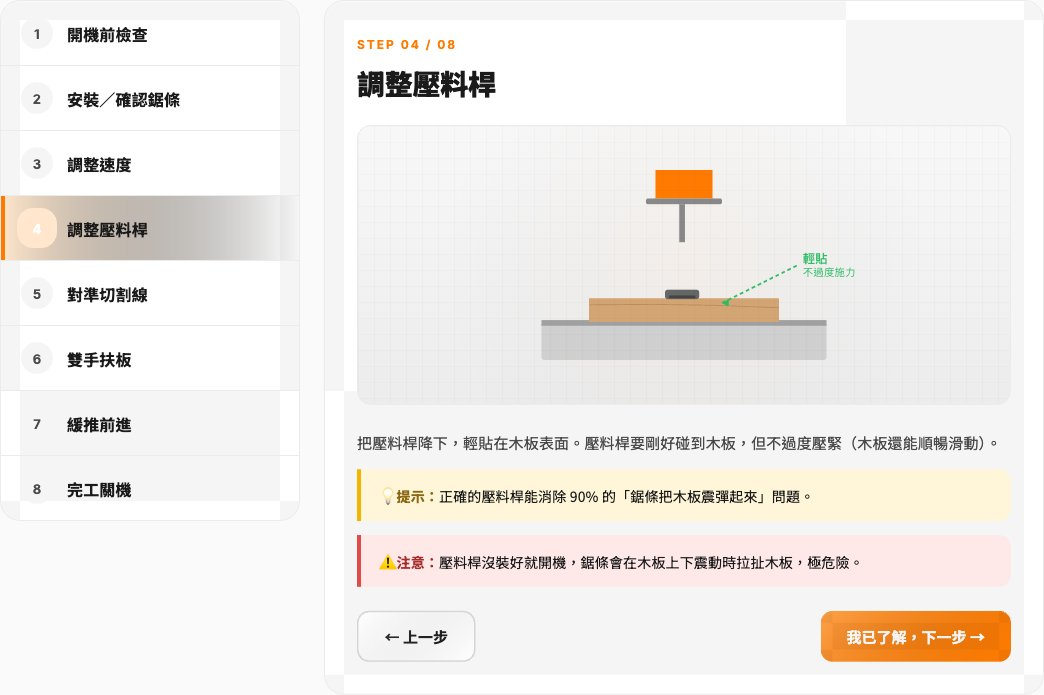
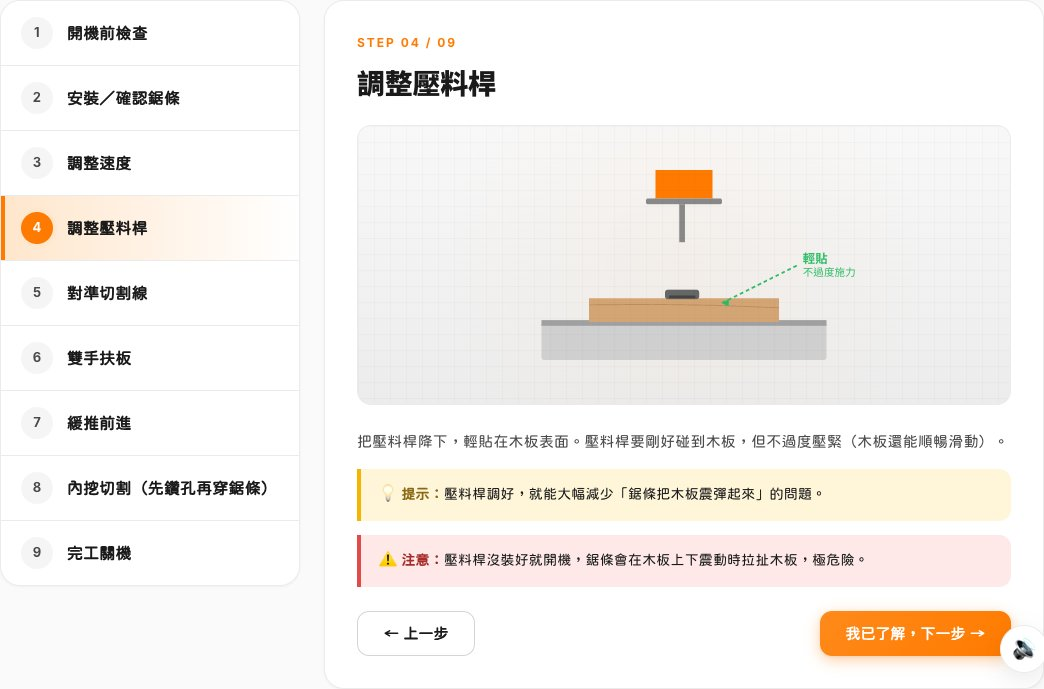
中嚴重度修正（一）：新興科技、機電整合、雷射切割、動力與運輸、STEAM、物理、線鋸機
- 新興科技：ECG 波形相位多乘心率、手錶讀值誤差不一致、遮擋提示與模型不符、一學期天數、
  深度調光沒有舒適代價、無人關閉說明
- 機電整合：閾值滑桿提示寫反、「距離 > 20 讀到 0」邏輯不通、直流馬達扭力、
  調校挑戰不動閾值就完成、感測器亮點左右顛倒
- 雷射切割：RDWorks 補「放料、對焦、設原點」（八→九步驟）、模組 4 一進頁就自動完成、切縫說明
- 動力與運輸：燃料電池碳排改以灰氫計並標明各動力碳排口徑、鈕扣電池推不動馬達、
  模組 4 一載入就記完成、電動車經減速齒輪驅動、塞車成本改定性描述
- STEAM：聲音波形改固定 10 ms 時間窗（頻率改變才看得出疏密）、三角波諧波正負交替、單步走完也記錄
- 物理：等時性定義（小擺角時週期與擺幅無關）
- 線鋸機：開機前檢查光環被圖框切掉、首頁輪播截圖更新為 9 步版、移除無來源的「消除 90%」

依 2026-09-26 多模型審查、Claude 驗證與動態體檢結果修正。

diff --git a/steam/js/module3.js b/steam/js/module3.js
@@ -17,7 +17,7 @@ const TIMBRES = [
   { id: 'saw', ico: '🪚', name: '鋸齒波', meta: '全諧波・明亮如弦樂',
     harm: [[1, 1], [2, 1 / 2], [3, 1 / 3], [4, 1 / 4], [5, 1 / 5], [6, 1 / 6], [7, 1 / 7], [8, 1 / 8]] },
   { id: 'tri', ico: '📐', name: '三角波', meta: '奇次衰減快・柔和似笛',
-    harm: [[1, 1], [3, 1 / 9], [5, 1 / 25], [7, 1 / 49], [9, 1 / 81]] },
+    harm: [[1, 1], [3, -1 / 9], [5, 1 / 25], [7, -1 / 49], [9, 1 / 81]] },   // 正負交替才是直線斜邊
 ];
 
 const state = { f: 440, a: 60, timbre: 'sine' };
@@ -39,7 +39,7 @@ function noteName(f) {
 function sample(t) {
   const T = TIMBRES.find(x => x.id === state.timbre);
   let v = 0, norm = 0;
-  T.harm.forEach(([n, amp]) => { v += amp * Math.sin(2 * Math.PI * state.f * n * t); norm += amp; });
+  T.harm.forEach(([n, amp]) => { v += amp * Math.sin(2 * Math.PI * state.f * n * t); norm += Math.abs(amp); });
   return v / norm;
 }
 
@@ -51,9 +51,9 @@ function draw() {
   ctx.strokeStyle = '#334155'; ctx.lineWidth = 1;
   ctx.beginPath(); ctx.moveTo(0, mid); ctx.lineTo(W, mid); ctx.stroke();
 
-  // 顯示固定 3 個週期，讓「頻率變高＝波變密」不會超出畫面
-  const periods = 3, dur = periods / state.f;
-  const amp = (state.a / 100) * (H / 2 - 22);
+  // 固定時間窗 10 ms：頻率變高＝同樣時間內的波變多、變密
+  const dur = 0.010, periods = state.f * dur;
+  const amp = (state.a / 100) * (H / 2 - 36);   // 下方留給時間刻度
 
   ctx.strokeStyle = '#EC4899'; ctx.lineWidth = 2.5; ctx.beginPath();
   for (let x = 0; x <= W; x++) {
@@ -63,15 +63,25 @@ function draw() {
   }
   ctx.stroke();
 
+  // 時間刻度：每 1 ms 一格
+  ctx.strokeStyle = '#475569'; ctx.lineWidth = 1;
+  ctx.fillStyle = '#64748b'; ctx.font = '10px Inter, sans-serif'; ctx.textAlign = 'center';
+  for (let ms = 0; ms <= 10; ms++) {
+    const x = ms / 10 * W;
+    ctx.beginPath(); ctx.moveTo(x, H - 30); ctx.lineTo(x, H - 24); ctx.stroke();
+    if (ms > 0 && ms < 10) ctx.fillText(ms + ' ms', x, H - 14);
+  }
+
   // 一個週期的標示
   const pw = W / periods;
   ctx.strokeStyle = '#8B5CF6'; ctx.setLineDash([6, 5]); ctx.lineWidth = 2;
-  ctx.beginPath(); ctx.moveTo(pw, 14); ctx.lineTo(pw, H - 14); ctx.stroke(); ctx.setLineDash([]);
-  ctx.fillStyle = '#8B5CF6'; ctx.font = '700 12px Inter, sans-serif'; ctx.textAlign = 'center';
-  ctx.fillText('← 一個週期 →', pw / 2, 22);
+  ctx.beginPath(); ctx.moveTo(pw, 14); ctx.lineTo(pw, H - 34); ctx.stroke(); ctx.setLineDash([]);
+  ctx.fillStyle = '#8B5CF6'; ctx.font = '700 12px Inter, sans-serif';
+  if (pw >= 110) { ctx.textAlign = 'center'; ctx.fillText('← 一個週期 →', pw / 2, 22); }
+  else { ctx.textAlign = 'left'; ctx.fillText('← 左邊這一段是一個週期', pw + 6, 22); }
 
   ctx.textAlign = 'left'; ctx.fillStyle = '#94a3b8'; ctx.font = '11px Inter, sans-serif';
-  ctx.fillText(`${state.f} Hz ・ 畫面顯示 ${periods} 個週期`, 12, H - 10);
+  ctx.fillText(`${state.f} Hz ・ 畫面寬 10 ms，約 ${periods.toFixed(1)} 個週期`, 12, H - 2);
 }
 
 function update() {
@@ -105,12 +115,12 @@ function play() {
     master.gain.linearRampToValueAtTime(0, now + dur);
     master.connect(audioCtx.destination);
 
-    const norm = T.harm.reduce((s, [, a]) => s + a, 0);
+    const norm = T.harm.reduce((s, [, a]) => s + Math.abs(a), 0);
     T.harm.forEach(([n, a]) => {
       if (state.f * n > 18000) return;           // 超出可聽範圍就不加，避免刺耳
       const osc = audioCtx.createOscillator(), g = audioCtx.createGain();
       osc.type = 'sine'; osc.frequency.value = state.f * n;
-      g.gain.value = a / norm;
+      g.gain.value = a / norm;                    // 負值＝反相（Web Audio 允許負增益）
       osc.connect(g); g.connect(master);
       osc.start(now); osc.stop(now + dur);
     });

diff --git a/emerging-tech/js/module4.js b/emerging-tech/js/module4.js
@@ -9,7 +9,8 @@ function saveP(p) { localStorage.setItem(PK, JSON.stringify(p)); }
 // ---------- 環境曲線（典型夏季上學日） ----------
 const HOURS = Array.from({ length: 24 }, (_, h) => h);
 const outdoorT = HOURS.map(h => 24 + 8 * Math.sin((h - 9) / 24 * 2 * Math.PI));      // 約 16–32 °C，14 時最熱
-const daylight = HOURS.map(h => (h < 6 || h > 18) ? 0 : Math.round(100 * Math.sin((h - 6) / 12 * Math.PI)));
+// 室內自然光照度（相對值）；早上 8 時太陽仍低、教室內自然光不足，壓低到 30
+const daylight = HOURS.map(h => (h < 6 || h > 18) ? 0 : h === 8 ? 30 : Math.round(100 * Math.sin((h - 6) / 12 * Math.PI)));
 const occupancy = HOURS.map(h => (h >= 8 && h <= 16) ? (h === 12 ? 0.3 : 1) : 0);    // 午休人少
 
 const AC_ON_HOURS = HOURS.filter(h => h >= 8 && h <= 17);
@@ -26,11 +27,11 @@ const SENSORS = [
 
 // ---------- 控制策略 ----------
 const RULES = [
-  { id: 'r_pir',  need: 'pir',  label: '無人關閉：偵測不到人時，空調與照明全關', desc: '午休與課後自動斷電。安全牌，省最多。' },
+  { id: 'r_pir',  need: 'pir',  label: '無人關閉：偵測不到人時，空調與照明全關', desc: '課後與空教室自動斷電（午休仍有約 3 成的人在，不會關）。安全牌，不影響舒適。' },
   { id: 'r_temp', need: 'temp', label: '溫控空調：室外低於 26°C 才不開空調', desc: '只在涼爽時段關機，不影響舒適。' },
   { id: 'r_eco',  need: 'temp', label: '⚡ 弱冷模式：室外低於 31°C 都不開空調', desc: '積極節能，但最熱的時段可能讓人受不了。啟用時會覆蓋上一條。' },
   { id: 'r_lux',  need: 'lux',  label: '日光調光：自然光充足（照度 ≥ 40）時關電燈', desc: '照度達標才關，看得清楚。' },
-  { id: 'r_dim',  need: 'lux',  label: '⚡ 深度調光：照度 ≥ 25 就關電燈', desc: '省更多，但陰天或早晚可能太暗。啟用時會覆蓋上一條。' },
+  { id: 'r_dim',  need: 'lux',  label: '⚡ 深度調光：照度 ≥ 25 就關電燈', desc: '省更多，但早上自然光還不夠時也會關燈，教室可能太暗。啟用時會覆蓋上一條。' },
 ];
 
 const state = { sensors: new Set(loadP().module4_sensors || []), rules: new Set(loadP().module4_rules || []) };
@@ -72,7 +73,7 @@ function simulate(useRules) {
 
 // ---------- 挑戰 ----------
 const QUESTS = [
-  { id: 'q_save30', text: '讓總用電比基準省下 30% 以上', hint: '無人關閉的效果最大',
+  { id: 'q_save30', text: '讓總用電比基準省下 30% 以上', hint: '日光調光＋無人關閉搭配，再加一條空調策略',
     test: (r) => r.savePct >= 30 },
   { id: 'q_comfort', text: '省下 30% 以上，且舒適度違規為 0', hint: '別在有人又熱的時段關掉空調',
     test: (r) => r.savePct >= 30 && r.discomfort === 0 },

diff --git a/physics/js/quiz.js b/physics/js/quiz.js
@@ -10,7 +10,7 @@ const QUIZ = [
   { sim: 'bounce', q: '如果球與地面是「完全彈性碰撞」（理想狀況），反彈高度會？', options: ['回到原來放開的高度', '愈彈愈高', '還是愈彈愈低'], correct: 0, explain: '完全彈性碰撞力學能守恆、不耗散，動能全部保留，球會回到原高度。現實中做不到，所以真實的球一定愈彈愈低。' },
   { sim: 'projectile', q: '同樣初速、忽略空氣阻力，哪個發射角度射程最遠？', options: ['35°', '45°', '55°'], correct: 1, explain: '45° 時水平速度與滯空時間的乘積最大，射程最遠。35° 與 55° 互為「餘角」（相加 90°），射程一樣但都比 45° 短。' },
   { sim: 'projectile', q: '拋體飛行中（忽略空氣阻力），水平方向的運動是？', options: ['等速運動', '等加速運動', '愈飛愈慢'], correct: 0, explain: '忽略空阻時水平方向沒有任何力，依慣性維持等速；只有垂直方向受重力做等加速運動。兩者合成就是拋物線。' },
-  { sim: 'pendulum', q: '單擺的週期主要由什麼決定？', options: ['擺錘的質量', '擺長與重力加速度', '放開的力氣大小'], correct: 1, explain: '週期 T ≈ 2π√(L/g)，只跟擺長 L 和重力加速度 g 有關。這就是單擺等時性，也是擺鐘可以計時的原理。' },
+  { sim: 'pendulum', q: '單擺的週期主要由什麼決定？', options: ['擺錘的質量', '擺長與重力加速度', '放開的力氣大小'], correct: 1, explain: '週期 T ≈ 2π√(L/g)，只跟擺長 L 和重力加速度 g 有關，與擺錘質量無關。另外在小擺角時，擺幅大小也不影響週期，這叫等時性，也是擺鐘可以計時的原理。' },
   { sim: 'pendulum', q: '把擺錘換成兩倍重（擺長不變、小角度），週期會？', options: ['變成兩倍', '變成一半', '不變'], correct: 2, explain: '週期公式裡沒有質量——重的擺錘受力較大但慣性也較大，兩者抵消，週期不變。' },
   { sim: 'circular', q: '等速圓周運動的小球，速率固定，它有加速度嗎？', options: ['沒有，速率沒變就沒加速度', '有，因為速度「方向」一直在變（向心加速度）', '只有轉快時才有'], correct: 1, explain: '速度是有方向的量。方向一直在變，速度就一直在變，所以有加速度——方向指向圓心，稱為向心加速度，由向心力提供。' },
   { sim: 'circular', q: '若繩子突然斷掉（向心力消失），球會往哪個方向飛？', options: ['沿半徑向外飛出', '沿當時的切線方向直線飛出', '繼續繞圓圈'], correct: 1, explain: '失去向心力後沒有力再改變方向，依慣性沿「當下速度方向」＝圓的切線方向做直線運動。甩鏈球就是這樣出手的。' },

diff --git a/powertrain/js/module3.js b/powertrain/js/module3.js
@@ -6,7 +6,7 @@ const STEPS = [
   { title: '計算齒輪比與輪徑', desc: '齒輪比 = 輪軸齒數 ÷ 馬達齒數\n速度 = (馬達 RPM ÷ 齒輪比) × 輪周長\n例：5000 RPM ÷ 4 倍 × 0.2m = 250 m/min ≈ 4 m/s', tip: '比賽要的是 5m 內加速到最快——齒輪比 3-5 倍最常見。' },
   { title: '製作車身結構', desc: '材料：保麗龍板、瓦楞紙板、巴沙木、3D 列印件\n要求：輕量化（< 50g 車身）、強度足夠承受輪軸轉動力、平面要平整給太陽能板貼。', tip: '輪軸軸承用塑膠管或滾珠軸承——車身鑽孔的摩擦太大，車跑不快。' },
   { title: '組裝動力系統', desc: '步驟：\n1. 馬達用熱熔膠固定到車身\n2. 馬達軸裝小齒輪\n3. 後輪軸裝大齒輪（要與小齒輪嚙合）\n4. 太陽能板用導線接馬達（+/-）\n5. 加開關控制', tip: '齒輪嚙合要剛好——太緊轉不動、太鬆會打滑。試 3 次找最佳位置。' },
-  { title: '室內測試與調整', desc: '優先到戶外陽光下測試；室內改用 LED 桌燈照射太陽能板，燈與板保持 10 cm 以上。\n注意：鹵素燈、白熾燈的燈泡非常燙，不要貼近太陽能板或車身，也不要用手碰——會燙傷，還可能烤熔保麗龍、熱熔膠而起火。\n測試重點：\n• 車輪有沒有正常轉？\n• 走直線還是偏一邊？\n• 加速順不順？\n依結果調整齒輪嚙合、車身對稱性、馬達固定。', tip: '室內測試燈光遠不夠亮——馬達可能轉不起來。可改用 3V 鈕釦電池暫代測試。' },
+  { title: '室內測試與調整', desc: '優先到戶外陽光下測試；室內改用 LED 桌燈照射太陽能板，燈與板保持 10 cm 以上。\n注意：鹵素燈、白熾燈的燈泡非常燙，不要貼近太陽能板或車身，也不要用手碰——會燙傷，還可能烤熔保麗龍、熱熔膠而起火。\n測試重點：\n• 車輪有沒有正常轉？\n• 走直線還是偏一邊？\n• 加速順不順？\n依結果調整齒輪嚙合、車身對稱性、馬達固定。', tip: '室內測試燈光遠不夠亮——馬達可能轉不起來。可改用 2 顆 3 號（AA）乾電池串聯（3V）的電池盒暫代測試；鈕扣電池電流太小，推不動 130／260 馬達。' },
   { title: '戶外實測 + 成果發表', desc: '陽光下做最終測試。記錄：\n• 加速時間（0 → 5m 多久）\n• 最高速\n• 直線性\n• 太陽能板朝向影響\n\n發表時除展示車輛，講設計選擇（為何選此馬達 / 齒比 / 輪徑）。', tip: '陰天電流降到一半——比賽日如果陰天，車跑得會比練習時慢。' },
 ];
 

diff --git a/powertrain/js/module4.js b/powertrain/js/module4.js
@@ -16,7 +16,18 @@ const POWERS = {
   diesel: { name: '柴油內燃機', eff: 30, unit: 'L/100km', costPerUnit: 28, co2PerUnit: 2680, fuelMul: 5.1 },
   ev:     { name: '電動 EV',   eff: 90, unit: 'kWh/100km', costPerUnit: 5, co2PerUnit: 495, fuelMul: 15 },
   hybrid: { name: '油電混合',   eff: 40, unit: 'L/100km', costPerUnit: 30, co2PerUnit: 2350, fuelMul: 3.6 },
-  fc:     { name: '燃料電池',   eff: 60, unit: 'kg/100km', costPerUnit: 250, co2PerUnit: 0, fuelMul: 1.0 },
+  fc:     { name: '燃料電池',   eff: 60, unit: 'kg/100km', costPerUnit: 250, co2PerUnit: 10000, fuelMul: 1.0 },
+};
+
+// CO₂ 口徑：汽油／柴油只算排氣管排放；電動車以台灣電力排碳係數（經濟部能源署 112 年度 0.494 kg CO2e/度）計、
+// 燃料電池以灰氫（天然氣重組製氫，IEA《Global Hydrogen Review 2024》10–12 kg CO2-eq/kg H₂，取 10）計，
+// 後兩者都含能源生產端，燃料電池車端雖然零排放，製氫仍有碳排
+const CO2_NOTE = {
+  ice: '只算排氣管排放（不含煉油、運輸）',
+  diesel: '只算排氣管排放（不含煉油、運輸）',
+  hybrid: '只算排氣管排放（不含煉油、運輸）',
+  ev: '車端零排放；此數字是發電端排放（台灣電力排碳係數約 0.49 kg/度）',
+  fc: '車端只排水；此數字是製氫排放（以天然氣製的灰氫約 10 kg CO₂/kg 計）',
 };
 
 const PK = 'pt_progress_v1';
@@ -43,6 +54,20 @@ function calc() {
   $('r-co2').textContent = (totalCO2 / 1000).toFixed(1) + ' kg';
   $('r-trees').textContent = trees.toFixed(2) + ' 棵/年';
   $('r-co2').style.color = totalCO2 > 50000 ? '#dc2626' : totalCO2 > 10000 ? '#eab308' : '#16A34A';
+  $('r-co2-note').textContent = CO2_NOTE[pId];
+  markUsed(pId);
+}
+
+// 完成條件：至少比較過 2 種動力來源，而且調整過行駛距離
+const usedPowers = new Set();
+let distMoved = false;
+function markUsed(pId) {
+  usedPowers.add(pId);
+  if (usedPowers.size < 2 || !distMoved) return;
+  const pr = loadP();
+  if (pr.module4) return;
+  pr.module4 = true; saveP(pr);
+  if (typeof showToast === 'function') showToast('✅ 已比較多種動力來源，模組 4 完成！', 'good');
 }
 
 document.querySelectorAll('.tab').forEach(t => t.addEventListener('click', () => {
@@ -52,7 +77,5 @@ document.querySelectorAll('.tab').forEach(t => t.addEventListener('click', () =>
   calc();
 }));
 $('s-power').addEventListener('change', calc);
-$('s-dist').addEventListener('input', calc);
+$('s-dist').addEventListener('input', () => { distMoved = true; calc(); });
 calc();
-
-const p = loadP(); p.module4 = true; saveP(p);

diff --git a/powertrain/js/module1.js b/powertrain/js/module1.js
@@ -1,7 +1,7 @@
 // 動力與運輸 模組 1：4 種動力系統
 const POWERS = [
   { id: 'ice', iso: 'ice-engine', name: '內燃機 Internal Combustion', icon: '🛢', eff: 25, desc: '燃料（汽油/柴油）在汽缸內燃燒，推動活塞 → 曲軸 → 變速箱 → 車輪。技術成熟 100+ 年。', pros: '加油快、續航長、技術成熟', cons: '效率低（25-30%）、CO₂ 排放、噪音、震動', use: '汽油車、機車、卡車、發電機' },
-  { id: 'em', iso: 'ev-motor', name: '電動機 Electric Motor', icon: '⚡', eff: 90, desc: '電池供電給馬達 → 直接驅動車輪（無需變速箱）。BLDC 無刷馬達是主流。', pros: '效率極高（90%+）、零排放、瞬間扭力大', cons: '電池貴、續航短、充電慢、寒冷耗電', use: '電動車、電動機車、電動巴士、高鐵' },
+  { id: 'em', iso: 'ev-motor', name: '電動機 Electric Motor', icon: '⚡', eff: 90, desc: '電池供電給馬達 → 經減速齒輪驅動車輪（不需要多檔變速箱）。BLDC 無刷馬達是主流。', pros: '效率極高（90%+）、零排放、瞬間扭力大', cons: '電池貴、續航短、充電慢、寒冷耗電', use: '電動車、電動機車、電動巴士、高鐵' },
   { id: 'fc', iso: 'fuel-cell', name: '燃料電池 Fuel Cell', icon: '⛽', eff: 60, desc: '氫氣 + 氧氣化學反應 → 直接產生電能（副產物是純水）。加氫 3 分鐘可跑 600 公里。', pros: '加氫快、零排放、續航長', cons: '氫氣製造耗電、儲存運輸難、加氫站少', use: 'Toyota Mirai、燃料電池巴士、未來航空' },
   { id: 'hyd', iso: 'hydraulic', name: '液壓動力 Hydraulic', icon: '💪', eff: 60, desc: '高壓液壓油推動油壓缸做直線運動。重型機械標配——力大、控制精準。', pros: '力極大（數十噸）、運動穩定、可精確定位', cons: '管路漏油、效率不如電動、需液壓站', use: '挖土機、堆高機、煞車系統、椅子升降' },
 ];

diff --git a/powertrain/js/module5.js b/powertrain/js/module5.js
@@ -1,6 +1,6 @@
 // 動力與運輸 模組 5：社會與環境
 const ISSUES = [
-  { icon: '🚦', name: '塞車成本', cat: '經濟', desc: '台北市平均通勤 35 分鐘塞車耗 1 小時。一年塞車經濟損失估 6000 億元，佔 GDP 3%。' },
+  { icon: '🚦', name: '塞車成本', cat: '經濟', desc: '尖峰時段塞在路上的時間，就是少掉的工作、讀書與休息時間，再加上多燒的油和貨物延誤——累積起來是整個城市、整個國家看不見的經濟損失。' },
   { icon: '💨', name: '空氣汙染', cat: '環境', desc: '機動車排放 NOx 與 PM2.5 是都市空汙最大來源。台灣道路致癌風險中等以上佔 28%。' },
   { icon: '🌡', name: '氣候變遷', cat: '環境', desc: '運輸佔全球 CO₂ 排放 24%。每加 1 公升汽油排 2.3 公斤 CO₂。全球暖化加速。' },
   { icon: '🏥', name: '交通事故', cat: '社會', desc: '台灣每年道路死亡約 3000 人、傷 50 萬人。年輕族群（18-24）死亡率最高。' },
@@ -26,7 +26,7 @@ ISSUES.forEach(i => {
 });
 
 const QUIZ = [
-  { q: '台北市每年塞車造成 GDP 損失 3%', ans: '經濟', explain: '塞車的時間損失轉換成金錢就是經濟議題。' },
+  { q: '每天塞車浪費的通勤時間與油錢，累積成可觀的社會成本', ans: '經濟', explain: '塞車的時間損失轉換成金錢就是經濟議題。' },
   { q: '機車排放的 PM2.5 影響市民呼吸健康', ans: '環境', explain: 'PM2.5 是空汙議題 = 環境面向。' },
   { q: '每年 3000 人死於車禍', ans: '社會', explain: '生命安全與公共福祉是社會面向。' },
   { q: '汽車中心都市 → 沒車的人不便', ans: '社會', explain: '公平性 = 社會議題。' },

diff --git a/scrollsaw/js/module3.js b/scrollsaw/js/module3.js
@@ -25,7 +25,7 @@ const STEPS = [
     title: '調整壓料桿',
     anim: 'holddown',
     desc: '把壓料桿降下，輕貼在木板表面。壓料桿要剛好碰到木板，但不過度壓緊（木板還能順暢滑動）。',
-    tip: '正確的壓料桿能消除 90% 的「鋸條把木板震彈起來」問題。',
+    tip: '壓料桿調好，就能大幅減少「鋸條把木板震彈起來」的問題。',
     warn: '壓料桿沒裝好就開機，鋸條會在木板上下震動時拉扯木板，極危險。',
   },
   {
@@ -143,10 +143,11 @@ function renderAnim(type) {
         <rect x="190" y="100" width="20" height="50" fill="#222"/>
         <rect x="160" y="90" width="80" height="14" fill="#FF9933"/>
         <!-- 環視動畫圓 -->
-        <circle cx="200" cy="155" r="80" fill="none" stroke="#FF7A00" stroke-width="2" stroke-dasharray="6 6">
+        <circle cx="200" cy="155" r="70" fill="none" stroke="#FF7A00" stroke-width="2" stroke-dasharray="6 6">
           <animateTransform attributeName="transform" type="rotate" from="0 200 155" to="360 200 155" dur="6s" repeatCount="indefinite"/>
         </circle>
-        <circle cx="200" cy="155" r="100" fill="none" stroke="#FF7A00" stroke-width="1" stroke-dasharray="3 3" opacity=".5">
+        <!-- 外圈半徑 84：下緣 239 仍在 viewBox 240 內，不會被切掉 -->
+        <circle cx="200" cy="155" r="84" fill="none" stroke="#FF7A00" stroke-width="1" stroke-dasharray="3 3" opacity=".5">
           <animateTransform attributeName="transform" type="rotate" from="360 200 155" to="0 200 155" dur="8s" repeatCount="indefinite"/>
         </circle>
         <!-- 檢查項目（角落白卡片，避開機台與圈圈）-->

diff --git a/lasercut/js/module2.js b/lasercut/js/module2.js
@@ -1,4 +1,4 @@
-// 雷射切割 模組 2：RDWorks 八步驟排序
+// 雷射切割 模組 2：RDWorks 九步驟排序
 // 觸控裝置 HTML5 拖放不可靠，故同時提供 ▲▼ 按鈕作為主要操作方式。
 const PK = 'laser_progress_v1';
 function loadP() { try { return JSON.parse(localStorage.getItem(PK)) || {}; } catch { return {}; } }
@@ -17,6 +17,8 @@ const STEPS = [
     why: '預覽會顯示雷射實際會怎麼走。可以提早發現圖層順序錯誤（例如先切外框導致件掉下去）。' },
   { id: 's6', t: 'Download 傳送到控制器', sub: '把檔案送進機器',
     why: 'RDWorks 是先把整份工作下載到控制器再執行，不是即時連線。傳完之後電腦其實可以不用一直連著。' },
+  { id: 's6b', t: '放置板材、對焦並設定原點', sub: '在機台上完成',
+    why: '板材要放平；<strong>焦距</strong>對在材料表面，能量才集中，否則「參數明明對卻切不斷」。再把雷射頭移到板材上要開始的位置按<strong>定位（設原點）</strong>——後面的掃框和加工都以這個原點為準，沒設好就會切到板材外面。' },
   { id: 's7', t: 'Frame 掃框確認位置', sub: '雷射頭空走一圈範圍',
     why: '<strong>最常被跳過、也最不該跳過的一步。</strong>三秒鐘確認加工範圍在板材內，避免切到台面或切在空氣中。' },
   { id: 's8', t: '開始加工並全程留守', sub: '人不能離開',

diff --git a/emerging-tech/js/module5.js b/emerging-tech/js/module5.js
@@ -51,8 +51,10 @@ function compute() {
   let err = Math.max(0.4, motionTerm + staticTerm);
   const errPct = err / a.hr * 100;
   // 誤差方向：動作偽影常讓 PPG 低估或鎖到步頻，這裡以低估呈現
-  const reading = Math.round(a.hr - err * 0.75);
-  return { truth: a.hr, reading, err: Math.round(err), errPct, act: a };
+  // 讀值＝真實 − 誤差，三張數據卡相減一致，挑戰判定也用同一個誤差值
+  const errR = Math.round(err);
+  const reading = a.hr - errR;
+  return { truth: a.hr, reading, err: errR, errPct, act: a };
 }
 
 // ---------- 波形繪製 ----------
@@ -64,9 +66,9 @@ function render(r) {
 
   // ECG 基準（乾淨）
   ctx.strokeStyle = '#22c55e'; ctx.lineWidth = 2; ctx.beginPath();
-  const beatsE = r.truth / 60 * 4;              // 4 秒視窗
+  // 4 秒視窗；相位＝時間 × 每秒心跳數
   for (let x = 0; x <= W; x++) {
-    const t = x / W * 4, ph = (t * beatsE / 4 * r.truth / 60) % 1;
+    const t = x / W * 4, ph = (t * r.truth / 60) % 1;
     let y = midE;
     if (ph < .06) y = midE - 42 * Math.sin(ph / .06 * Math.PI);
     else if (ph < .12) y = midE + 10 * Math.sin((ph - .06) / .06 * Math.PI);

diff --git a/emerging-tech/js/module2.js b/emerging-tech/js/module2.js
@@ -123,12 +123,12 @@ function update() {
     <div style="background:#fffbeb;border-radius:12px;padding:14px">
       <div style="font-size:13px;color:#92400e;font-weight:700">本人被擋在門外</div>
       <div style="font-size:24px;font-weight:900;color:#d97706;font-family:'JetBrains Mono',monospace">${rejects.toFixed(1)} 次／天</div>
-      <div style="font-size:12px;color:#78350f">約 ${(rejects * 20).toFixed(0)} 次／學期（20 天估）</div>
+      <div style="font-size:12px;color:#78350f">約 ${(rejects * 100).toFixed(0)} 次／學期（約 100 個上課日估）</div>
     </div>
     <div style="background:#fef2f2;border-radius:12px;padding:14px">
       <div style="font-size:13px;color:#991b1b;font-weight:700">外人被誤放進校</div>
       <div style="font-size:24px;font-weight:900;color:#dc2626;font-family:'JetBrains Mono',monospace">${accepts.toFixed(2)} 次／天</div>
-      <div style="font-size:12px;color:#7f1d1d">約 ${(accepts * 20).toFixed(1)} 次／學期</div>
+      <div style="font-size:12px;color:#7f1d1d">約 ${(accepts * 100).toFixed(1)} 次／學期</div>
     </div>`;
 
   const sv = document.getElementById('scVerdict');

diff --git a/steam/js/module2.js b/steam/js/module2.js
@@ -91,7 +91,11 @@ function render() {
     v.className = 'verdict good';
     v.textContent = `✅ ${a.name} 完成：共比較 ${f.cmp} 次、交換 ${f.swp} 次。`;
     if (!bestCmp[algo] || f.cmp < bestCmp[algo]) bestCmp[algo] = f.cmp;
-    const p = loadP(); p.module2_best = bestCmp; saveP(p);
+    // 自動播放或單步走到最後一步，都算跑完這個演算法
+    const wasSeen = seenAlgos.has(algo);
+    seenAlgos.add(algo);
+    const p = loadP(); p.module2_best = bestCmp; p.module2_seen = Array.from(seenAlgos); saveP(p);
+    if (!wasSeen) renderAlgos();
     check();
   } else {
     v.className = 'verdict warn';
@@ -236,9 +240,7 @@ document.getElementById('auto').addEventListener('click', () => {
     if (idx >= frames.length - 1) {
       clearInterval(timer); timer = null;
       document.getElementById('auto').textContent = '⏩ 自動播放';
-      seenAlgos.add(algo);
-      const p = loadP(); p.module2_seen = Array.from(seenAlgos); saveP(p);
-      renderAlgos(); check(); return;
+      return;   // 最後一步的 render() 已記錄跑完
     }
     idx++; render();
   }, 160);
